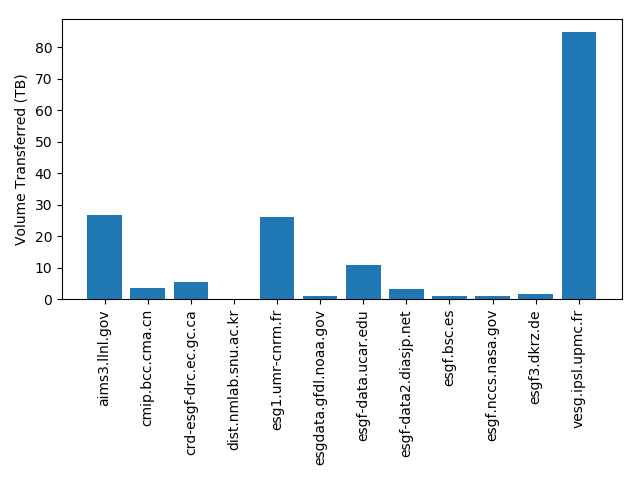
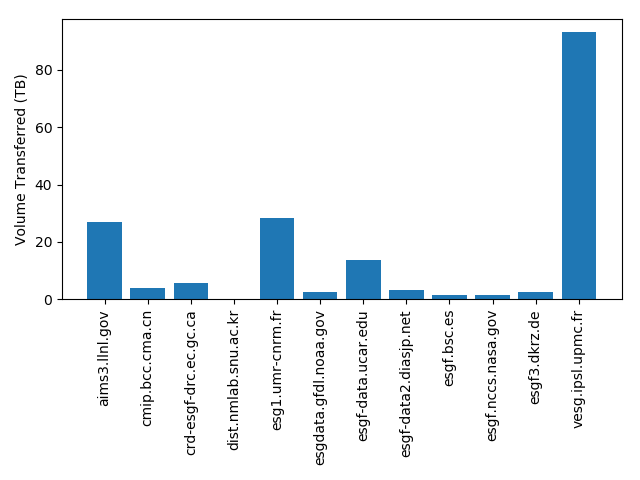
refactor analyse

diff --git a/analyse-synda.py b/analyse-synda.py
@@ -1,0 +1,80 @@
+#!/usr/bin/env Python
+
+import sqlite3
+import os
+import matplotlib.pyplot as plt
+from sqlite3 import Error
+
+database = "/gws/nopw/j04/cmip6_prep_vol1/synda/cmip6_sdt_backups/sdt.db.latest"
+
+
+def create_connection(db_file):
+	""" create a database connection to the SQLite database
+		specified by the db_file
+	:param db_file: database file
+	:return: Connection object or None
+	"""
+	try:
+		conn = sqlite3.connect(db_file)
+		return conn
+	except Error as e:
+		print(e)
+
+	return None
+
+
+def get_data_transfer_vols(conn):
+	query = conn.cursor()
+	query.execute(
+		"select data_node, cast(sum(size)/(1024*1024*1024*1024.) as float) from file where status='done' group by data_node;")
+	results = query.fetchall()
+
+	nodes = []
+	vols = []
+	for i in results:
+		nodes.append(i[0])
+		vols.append(i[1])
+
+	return nodes, vols
+
+
+def get_data_transfer_rates(conn, datanodes):
+	result = []
+	for datanode in datanodes:
+		query = conn.cursor()
+		query.execute("select rate/1000000 from file where status='done' and data_node=?", (datanode,))
+		results = query.fetchall()
+		result.append([r[0] for r in results])
+
+	return result
+
+
+def plot_data_vols(nodes, volumes):
+	plt.figure(0)
+	plt.bar(nodes, volumes)
+	plt.ylabel('Volume Transferred (TB)')
+	plt.xticks(rotation=90)
+	plt.tight_layout()
+	plt.savefig('docs/images/volumes.png', format='png')
+
+
+def plot_transfer_rates(datanodes, transfer_rates):
+	plt.figure(1)
+	plt.boxplot(transfer_rates, labels=datanodes)
+	plt.ylabel('Transfer rate (MiB/s)')
+	plt.xticks(rotation=90)
+	plt.tight_layout()
+	plt.savefig('docs/images/rates.png', format='png')
+
+
+def main():
+	conn = create_connection(database)
+	datanodes, volumes = get_data_transfer_vols(conn)
+	plot_data_vols(datanodes, volumes)
+	transfer_rates = get_data_transfer_rates(conn, datanodes)
+	plot_transfer_rates(datanodes, transfer_rates)
+
+
+if __name__ == "__main__":
+	main()
+

diff --git a/README.md b/README.md
@@ -1,2 +1,2 @@
-# synda-status
-Synda monitoring 
+# ruthpetrie.github.io
+Synda status
